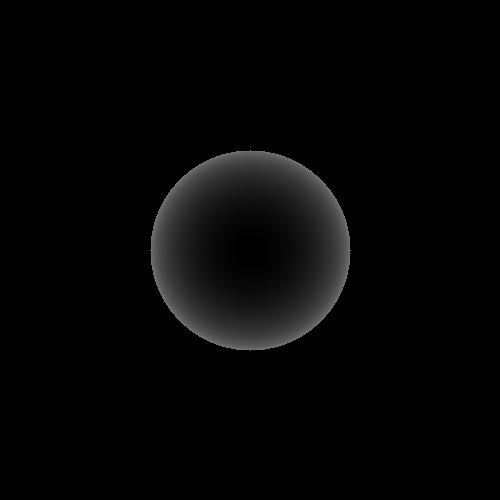
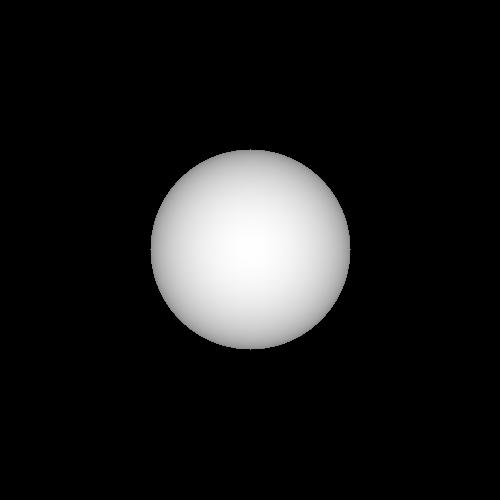
Added Progress Bars
Still not finished with the progress bars, just testing

Changed region(s): [[0.3, 0.3, 0.72, 0.72]]

diff --git a/Main.py b/Main.py
@@ -10,7 +10,7 @@ from RayHit import *
 from Objects import *
 from Group import Group
 from Vector3 import *
-
+from tqdm import tqdm
 
 # main render function takes a json file with needed information
 
@@ -25,7 +25,7 @@ def Render(filename, camera, group, background):
         for x in range(resX):
             pixels[x, y] = tuple(background)
 
-    for y in range(resY):
+    for y in tqdm(range(resY)):
         yy = y / resY
         for x in range(resX):
             xx = x / resX
@@ -34,9 +34,21 @@ def Render(filename, camera, group, background):
             for object in group.objects:
                 object.intersect(ray, hit, 0.0)
                 if hit.t > 0:
-                    pixels[x, y] = tuple(hit.color)
+                    pixels[x, resY - y - 1] = tuple(hit.color)
 
     img.save(filename, format="JPEG")
+
+
+def test():
+    resX = 500
+    resY = 500
+    img = Image.new("RGB", (resX, resY))
+    pixels = img.load()
+    for y in range(resY):
+        for x in range(resX):
+            pixels[x, resY - y - 1] = tuple([int((x * 255 / resX)), int(y * 255 / resY), 64])
+
+    img.show()
 
 
 def RenderDepth(filename, camera, group, background, near, far):
@@ -50,9 +62,10 @@ def RenderDepth(filename, camera, group, background, near, far):
         for x in range(resX):
             pixels[x, y] = tuple(background)
 
-    for y in range(resY):
+    for y in tqdm(range(resY)):
         yy = y / resY
         for x in range(resX):
+
             xx = x / resX
             ray = camera.Generate_ray(xx, yy)
             hit = Hit()
@@ -60,8 +73,8 @@ def RenderDepth(filename, camera, group, background, near, far):
                 object.intersect(ray, hit, 0.0)
                 if hit.t > 0:
                     depth_1 = (far - hit.t) / (far - near)
-                    depth = int((1 - depth_1) * 255)
-                    pixels[x, y] = tuple([depth, depth, depth])
+                    depth = int(depth_1 * 255)
+                    pixels[x, resY - y - 1] = tuple([depth, depth, depth])
 
     img.save(filename, format="JPEG")
 
@@ -81,7 +94,7 @@ def RenderScene(scene, near, far):
     camera = OrthographicCamera(camVec, camDirVec, camUpVec, size)
     background = data['background']['color']
 
-    group = Group()
+    group = Group([0, 0, 0])
 
     for item in data['group']:
         sCenter = item['sphere']['center']

diff --git a/Objects.py b/Objects.py
@@ -41,14 +41,19 @@ class Sphere(Object3D):
 
     def intersect(self, ray: Vector3, hit, tmin):
         L: Vector3 = self.center - ray.origin
+        if L.magnitude() < self.radius:
+            return
         tca: float = L.dot(ray.direction)
+        if tca < 0:
+            return
         d2: float = L.dot(L) - tca * tca
         radius2 = self.radius * self.radius
-        if d2 > radius2:
+        if d2 > radius2 or d2 < 0:
             return
         thc: float = sqrt(radius2 - d2)
         t0 = tca - thc
         hit.t = t0
+        hit.color = self.color
         # t1 = tca + thc
 
 

diff --git a/Vector3.py b/Vector3.py
@@ -1,3 +1,6 @@
+import math
+
+
 class Vector3:
     def __init__(self, a=0, b=0, c=0):
         self.x = a
@@ -35,7 +38,10 @@ class Vector3:
         return self ^ other
 
     def dot(self, other):
-        return  self.x * other.x + self.y * other.y + self.z * other.z
+        return self.x * other.x + self.y * other.y + self.z * other.z
 
     def __str__(self):
         return "(" + str(self.x) + "," + str(self.y) + "," + str(self.z) + ")"
+
+    def magnitude(self):
+        return math.sqrt(self.x * self.x + self.y * self.y + self.z * self.z)

diff --git a/Group.py b/Group.py
@@ -5,6 +5,7 @@ from Objects import Object3D
 class Group(Object3D):
     def __init__(self, color):
         super().__init__(color)
+        self.color = color
         self.objects = []
 
     def add(self, object):
